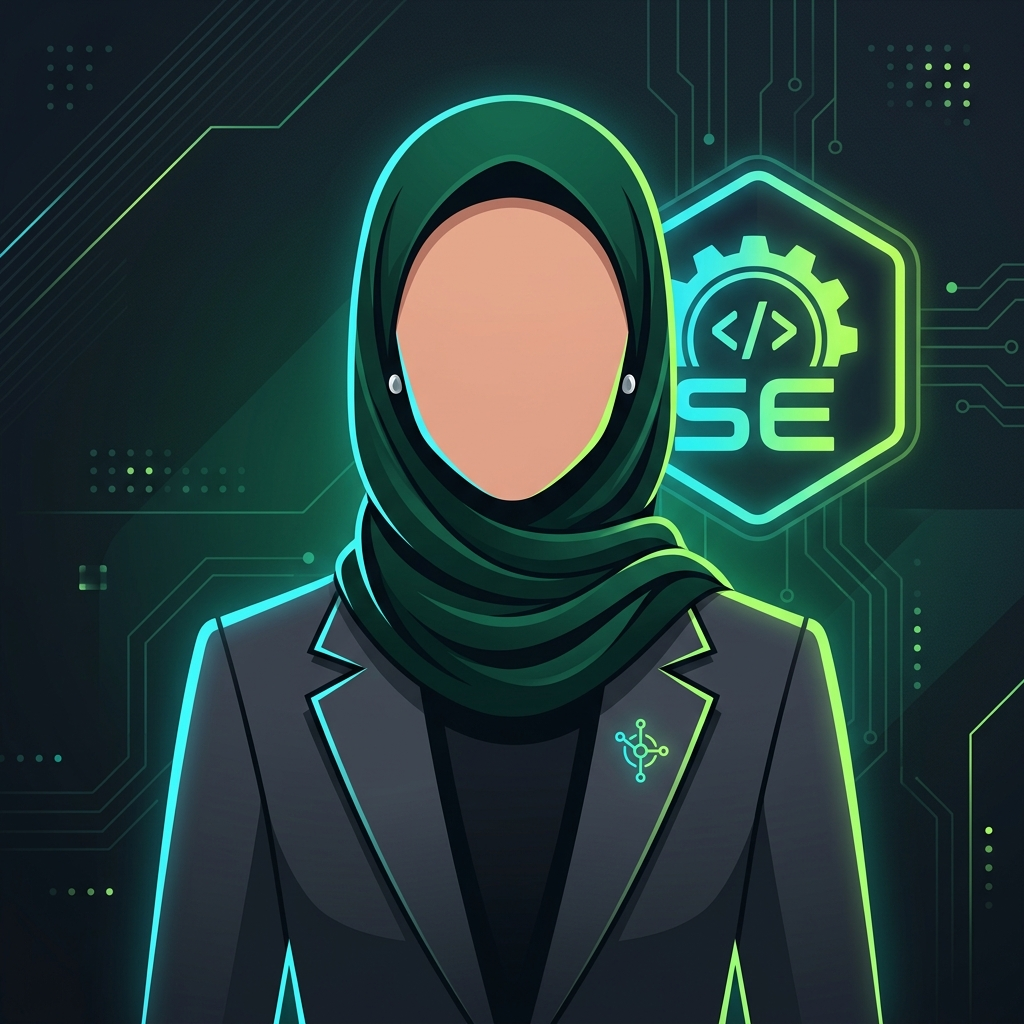
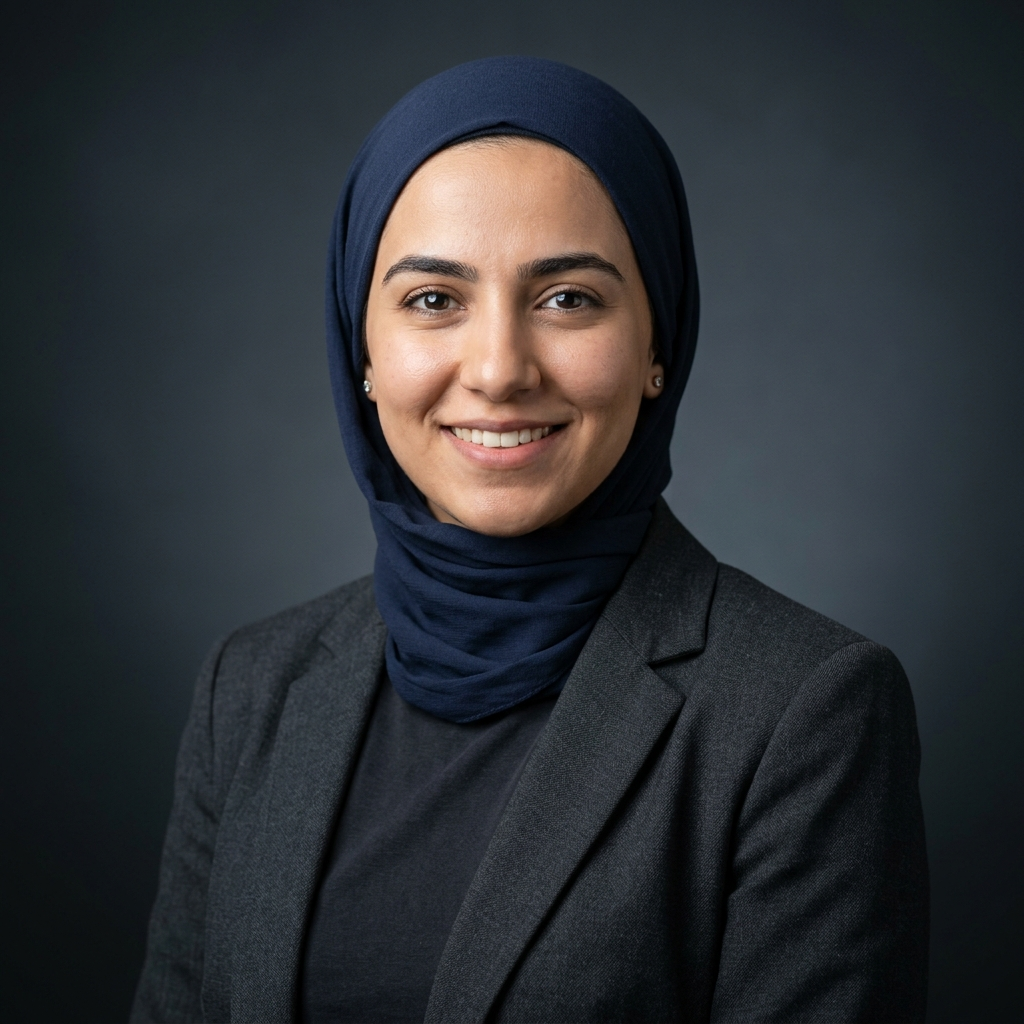
feat: design intelligence overhaul - spotlight cards, executive headshot, eliminate phantom SVG, fix button collision & form caret

diff --git a/index.html b/index.html
@@ -401,18 +401,7 @@
         <!-- Vertical Stats with Edge-to-Edge Laser Beam -->
         <div class="laser-stats-container">
 
-          <!-- Background Outline Numbers Artwork "25000" -->
-          <div class="bg-outline-text-wrapper" aria-hidden="true">
-            <svg class="bg-outline-svg" viewBox="0 0 1033 226" preserveAspectRatio="xMidYMid meet">
-              <g>
-                <path class="number2" fill="none" stroke="#00E5FF" stroke-width="2" stroke-miterlimit="10" d="M14 219.9C6.7 219.9 3 216.7 3 210.4V203.4C3 198.3 5.3 193.3 10 188.3L53.8 142.2C67 128.2 79 115.8 90 104.9C100.9 94 106.4 83 106.4 71.9C106.4 60.8 103.6 52.6 98.1 47.4C92.6 42.2 85.6 39.6 77.1 39.6C63.6 39.6 54.2 42.7 49 49C43.7 55.3 39.9 61.9 37.6 69.1C35.4 76 31.3 78.5 25.3 76.6L10.5 71.6C5.7 69.9 4.3 65.4 6.4 57.8C10.2 43.8 18 31.8 29.7 21.8C41.4 11.8 58.8 6.8 81.8 6.8C105.8 6.8 123.3 13 134.1 25.3C144.9 37.7 150.4 51.1 150.4 65.5C150.4 84.5 142.5 101.2 126.7 115.5C110.9 129.8 96.5 143.8 83.6 157.4L58.4 183.7V184.3C64.3 183.9 69.2 183.7 73.1 183.7H141.7C149 183.7 152.7 186.9 152.7 193.2V210.5C152.7 216.8 149 220 141.7 220H14V219.9Z"/>
-                <path class="number5" fill="none" stroke="#00E5FF" stroke-width="2" stroke-miterlimit="10" d="M180.864 204.787C177.566 200.395 177.116 196.602 179.515 193.408L190.007 179.034C194.203 173.245 199.3 173.095 205.295 178.585C208.892 181.879 214.438 184.874 221.932 187.569C229.427 190.164 236.921 191.462 244.415 191.462C255.807 191.462 265.399 188.267 273.193 181.879C281.087 175.491 285.034 166.158 285.034 153.88C285.034 142.202 282.536 132.769 277.54 125.582C272.544 118.396 266.498 114.802 259.404 114.802C253.308 114.802 247.713 115.301 242.617 116.299C237.52 117.198 232.224 120.043 226.729 124.834C222.932 128.128 218.335 129.775 212.939 129.775H196.602C190.107 129.775 186.859 126.531 186.859 120.043V16.7321C186.859 10.244 190.107 7 196.602 7H304.519C311.014 7 314.262 10.244 314.262 16.7321V34.3997C314.262 40.8878 311.014 44.1319 304.519 44.1319H228.827V80.8146C228.827 84.8072 228.627 88.7999 228.228 92.7926H229.127C234.423 88.201 240.318 85.1566 246.813 83.6593C253.308 82.0623 260.253 81.2637 267.647 81.2637C285.134 81.2637 299.873 87.2528 311.864 99.2308C323.955 111.109 330 129.525 330 154.479C330 177.437 322.306 194.955 306.918 207.033C291.629 219.011 273.443 225 252.359 225C234.773 225 219.534 223.103 206.644 219.31C193.854 215.418 185.26 210.576 180.864 204.787Z"/>
-                <path class="number0" fill="none" stroke="#00E5FF" stroke-width="2" stroke-miterlimit="10" d="M354.6 115.7C354.6 76.1 360.8 48.1 373.1 31.5C385.4 14.9 404.3 6.6 429.6 6.6C455 6.6 473.8 14.9 486.1 31.5C498.4 48.1 504.6 76.2 504.6 115.7C504.6 155.2 498.4 183.3 486.1 199.9C473.8 216.5 454.9 224.8 429.6 224.8C404.2 224.8 385.4 216.5 373.1 199.9C360.7 183.3 354.6 155.3 354.6 115.7ZM398 115.7C398 133.8 399.5 151.1 402.5 167.8C405.5 184.5 414.5 192.8 429.7 192.8C444.8 192.8 453.9 184.5 456.9 167.8C459.9 151.1 461.4 133.7 461.4 115.7C461.4 97.6 459.9 80.3 456.9 63.6C453.9 46.9 444.9 38.6 429.7 38.6C414.6 38.6 405.5 46.9 402.5 63.6C399.4 80.3 398 97.7 398 115.7Z"/>
-                <path class="number0" fill="none" stroke="#00E5FF" stroke-width="2" stroke-miterlimit="10" d="M527.4 115.7C527.4 76.1 533.6 48.1 545.9 31.5C558.2 14.9 577.1 6.6 602.4 6.6C627.8 6.6 646.6 14.9 658.9 31.5C671.2 48.1 677.4 76.2 677.4 115.7C677.4 155.2 671.2 183.3 658.9 199.9C646.6 216.5 627.7 224.8 602.4 224.8C577 224.8 558.2 216.5 545.9 199.9C533.5 183.3 527.4 155.3 527.4 115.7ZM570.8 115.7C570.8 133.8 572.3 151.1 575.3 167.8C578.3 184.5 587.3 192.8 602.5 192.8C617.6 192.8 626.7 184.5 629.7 167.8C632.7 151.1 634.2 133.7 634.2 115.7C634.2 97.6 632.7 80.3 629.7 63.6C626.7 46.9 617.7 38.6 602.5 38.6C587.4 38.6 578.3 46.9 575.3 63.6C572.2 80.3 570.8 97.7 570.8 115.7Z"/>
-                <path class="number0" fill="none" stroke="#00E5FF" stroke-width="2" stroke-miterlimit="10" d="M703.2 115.7C703.2 76.1 709.4 48.1 721.7 31.5C734 14.9 752.9 6.6 778.2 6.6C803.6 6.6 822.4 14.9 834.7 31.5C847 48.1 853.2 76.2 853.2 115.7C853.2 155.2 847 183.3 834.7 199.9C822.4 216.5 803.5 224.8 778.2 224.8C752.8 224.8 734 216.5 721.7 199.9C709.3 183.3 703.2 155.3 703.2 115.7ZM746.6 115.7C746.6 133.8 748.1 151.1 751.1 167.8C754.1 184.5 763.1 192.8 778.3 192.8C793.4 192.8 802.5 184.5 805.5 167.8C808.5 151.1 810 133.7 810 115.7C810 97.6 808.5 80.3 805.5 63.6C802.5 46.9 793.5 38.6 778.3 38.6C763.2 38.6 754.1 46.9 751.1 63.6C748 80.3 746.6 97.7 746.6 115.7Z"/>
-              </g>
-            </svg>
-          </div>
+
 
           <!-- Glowing Full-Bleed Ionic Laser Beams Background -->
           <div class="laser-background" aria-hidden="true">
@@ -561,7 +550,7 @@
           </p>
         </div>
 
-        <div class="services-grid">
+        <div class="services-grid spotlight-grid">
 
           <!-- Service 1: Web Development -->
           <article class="card service-card hover-lift" data-service-index="1">
@@ -1027,21 +1016,21 @@
 
               <div class="form-group">
                 <label class="form-label" for="contact-name">
-                  الاسم الكامل <span aria-hidden="true" style="color:var(--color-error)">*</span>
+                  <span data-key="contactNameLabel">الاسم الكامل</span> <span aria-hidden="true" style="color:var(--color-error)">*</span>
                 </label>
                 <input id="contact-name"
                        class="form-input"
                        type="text"
                        name="name"
                        autocomplete="name"
-                       placeholder="الاسم الكامل"
+                       placeholder="الاسم الكامل" data-key-placeholder="contactNamePlaceholder"
                        required
                        aria-required="true">
               </div>
 
               <div class="form-group">
                 <label class="form-label" for="contact-email">
-                  البريد الإلكتروني <span aria-hidden="true" style="color:var(--color-error)">*</span>
+                  <span data-key="contactEmailLabel">البريد الإلكتروني</span> <span aria-hidden="true" style="color:var(--color-error)">*</span>
                 </label>
                 <input id="contact-email"
                        class="form-input"
@@ -1056,12 +1045,12 @@
 
               <div class="form-group">
                 <label class="form-label" for="contact-message">
-                  الرسالة <span aria-hidden="true" style="color:var(--color-error)">*</span>
+                  <span data-key="contactMessageLabel">الرسالة</span> <span aria-hidden="true" style="color:var(--color-error)">*</span>
                 </label>
                 <textarea id="contact-message"
                           class="form-textarea"
                           name="message"
-                          placeholder="اكتب رسالتك هنا..."
+                          placeholder="اكتب رسالتك هنا..." data-key-placeholder="contactMessagePlaceholder"
                           required
                           aria-required="true"
                           rows="4"></textarea>

diff --git a/assets/css/components.css b/assets/css/components.css
@@ -200,8 +200,11 @@ body.lang-ar .btn:hover .btn-arrow {
 }
 
 @media (hover: hover) and (pointer: fine) {
-  body, a, button, input, textarea, select, [role="button"] {
+  body, a, button, [role="button"] {
     cursor: none !important;
+  }
+  input, textarea, select {
+    cursor: text !important;
   }
 }
 
@@ -2014,6 +2017,8 @@ body.lang-ar .cookie-toast {
   display: block;
   transition: transform 0.6s cubic-bezier(0.16, 1, 0.3, 1);
   filter: contrast(1.05) saturate(1.02);
+  mask-image: radial-gradient(ellipse 92% 88% at 50% 50%, black 72%, transparent 100%);
+  -webkit-mask-image: radial-gradient(ellipse 92% 88% at 50% 50%, black 72%, transparent 100%);
 }
 
 .hero-cockpit-card:hover .cockpit-arch-img {
@@ -2160,30 +2165,47 @@ body:not(.lang-ar) .badge-bottom-edge {
 
 /* Responsive adjustment for badges on smaller screens */
 @media (max-width: 768px) {
-  body.lang-ar .badge-top-edge,
-  body:not(.lang-ar) .badge-top-edge {
-    position: static;
-    margin-bottom: 8px;
-    animation: none;
-  }
-  body.lang-ar .badge-bottom-edge,
-  body:not(.lang-ar) .badge-bottom-edge {
-    position: static;
-    margin-top: 8px;
-    animation: none;
-  }
   .cockpit-stage {
-    display: flex;
-    flex-direction: column;
-    padding: 10px;
+    position: relative;
+    padding: 8px;
   }
   .cockpit-arch-img {
     height: 220px;
   }
+  .cockpit-badge {
+    position: absolute !important;
+    transform: scale(0.85);
+    transform-origin: center;
+    padding: 6px 10px;
+  }
+  body.lang-ar .badge-top-edge {
+    top: 10px;
+    right: 4px;
+    left: auto;
+    animation: none;
+  }
+  body:not(.lang-ar) .badge-top-edge {
+    top: 10px;
+    left: 4px;
+    right: auto;
+    animation: none;
+  }
+  body.lang-ar .badge-bottom-edge {
+    bottom: 10px;
+    left: 4px;
+    right: auto;
+    animation: none;
+  }
+  body:not(.lang-ar) .badge-bottom-edge {
+    bottom: 10px;
+    right: 4px;
+    left: auto;
+    animation: none;
+  }
   .cockpit-capabilities {
-    flex-direction: column;
-    align-items: flex-start;
-    gap: 6px;
+    flex-wrap: wrap;
+    gap: 8px;
+    padding: 10px 14px;
   }
 }
 
@@ -2195,4 +2217,50 @@ body.lang-ar .badge-subtitle,
 body.lang-ar .cockpit-cap-item {
   font-family: var(--font-primary) !important;
   letter-spacing: 0 !important;
+}
+
+
+/* ═══════════════════════════════════════════════════════════
+   MODERN SPOTLIGHT BORDER GLOW (Linear / Aceternity Style)
+   Hardware-accelerated 1px specular perimeter tracker
+   ═══════════════════════════════════════════════════════════ */
+
+.spotlight-card {
+  position: relative;
+}
+
+.spotlight-card::before {
+  content: '';
+  position: absolute;
+  inset: -1px;
+  border-radius: inherit;
+  padding: 1px;
+  background: radial-gradient(
+    380px circle at var(--mouse-x, -999px) var(--mouse-y, -999px),
+    rgba(168, 255, 0, 0.45) 0%,
+    rgba(53, 237, 202, 0.22) 35%,
+    rgba(255, 255, 255, 0.06) 65%,
+    transparent 85%
+  );
+  -webkit-mask: linear-gradient(#fff 0 0) content-box, linear-gradient(#fff 0 0);
+  -webkit-mask-composite: xor;
+  mask-composite: exclude;
+  pointer-events: none;
+  opacity: 0;
+  transition: opacity 220ms ease;
+  z-index: 2;
+}
+
+.spotlight-card:hover::before {
+  opacity: 1;
+}
+
+[data-theme="light"] .spotlight-card::before {
+  background: radial-gradient(
+    380px circle at var(--mouse-x, -999px) var(--mouse-y, -999px),
+    rgba(46, 139, 0, 0.35) 0%,
+    rgba(0, 168, 150, 0.2) 35%,
+    rgba(0, 0, 0, 0.05) 65%,
+    transparent 85%
+  );
 }

diff --git a/assets/js/lang-data.js b/assets/js/lang-data.js
@@ -198,6 +198,9 @@ window.IONITY_STRINGS = {
     contactDirectBtn:     'تواصل عبر واتساب',
     contactFormTitle:     'أو أرسل لنا رسالة مباشرة',
     contactFormSubtitle:  'املأ البيانات وسيقوم فريقنا بالرد عليك في غضون ٢٤ ساعة.',
+    contactNameLabel:     'الاسم الكامل',
+    contactEmailLabel:    'البريد الإلكتروني',
+    contactMessageLabel:  'الرسالة',
     sendBtn:              'إرسال الرسالة',
 
     /* Footer */
@@ -401,6 +404,9 @@ window.IONITY_STRINGS = {
     contactDirectBtn:     'Chat on WhatsApp',
     contactFormTitle:     'Or send us a direct message',
     contactFormSubtitle:  'Fill out the details and our team will get back to you within 24 hours.',
+    contactNameLabel:     'Full Name',
+    contactEmailLabel:    'Email Address',
+    contactMessageLabel:  'Message',
     sendBtn:              'Send Message',
 
     /* Footer */

diff --git a/assets/js/main.js b/assets/js/main.js
@@ -1073,3 +1073,26 @@
   })();
 
 })();
+
+
+  /* ── Interactive Spotlight Mouse Tracker (Linear / Aceternity Style) ── */
+  function initSpotlightTracker() {
+    var isTouch = window.matchMedia('(hover: none) or (pointer: coarse)').matches;
+    if (isTouch) return;
+    var cards = document.querySelectorAll('.spotlight-card, .service-card, .product-card, .hero-cockpit-card');
+    if (!cards.length) return;
+    cards.forEach(function(card) {
+      card.addEventListener('mousemove', function(e) {
+        var rect = card.getBoundingClientRect();
+        var x = e.clientX - rect.left;
+        var y = e.clientY - rect.top;
+        card.style.setProperty('--mouse-x', x + 'px');
+        card.style.setProperty('--mouse-y', y + 'px');
+      }, { passive: true });
+    });
+  }
+  if (document.readyState === 'loading') {
+    document.addEventListener('DOMContentLoaded', initSpotlightTracker);
+  } else {
+    initSpotlightTracker();
+  }

diff --git a/assets/css/muffin.css b/assets/css/muffin.css
@@ -1303,19 +1303,24 @@ body.lang-ar .solutions-note {
 
 .product-card-footer {
   display: flex;
-  align-items: center;
+  flex-direction: column;
   gap: 0.5rem;
   margin-top: auto;
-  padding-top: 0.75rem;
+  padding-top: 0.85rem;
   border-top: 1px solid rgba(255, 255, 255, 0.06);
+  width: 100%;
 }
 
 .product-card-footer .btn {
-  flex: 1 1 0;
+  width: 100%;
   justify-content: center;
-  white-space: nowrap;
-  font-size: 0.775rem;
-  padding: 0.45rem 0.65rem;
+  text-align: center;
+  white-space: normal;
+  font-size: 0.8125rem;
+  font-weight: 500;
+  padding: 0.55rem 0.85rem;
+  min-height: 38px;
+  line-height: 1.25;
 }
 
 /* ── Product Details Modal ──────────────────────────────────── */
@@ -1908,6 +1913,7 @@ body.lang-ar .cta-headline {
 }
 
 .contact-channel-bg-svg {
+  display: none !important;
   position: absolute;
   top: 50%;
   left: 50%;

diff --git a/assets/css/base.css b/assets/css/base.css
@@ -24,6 +24,8 @@ html {
 body {
   font-family: var(--font-primary);
   background-color: var(--color-bg);
+  background-image: radial-gradient(rgba(255, 255, 255, 0.035) 1px, transparent 1px);
+  background-size: 28px 28px;
   color: var(--color-text);
   font-weight: var(--weight-regular);
   line-height: 1.7;
